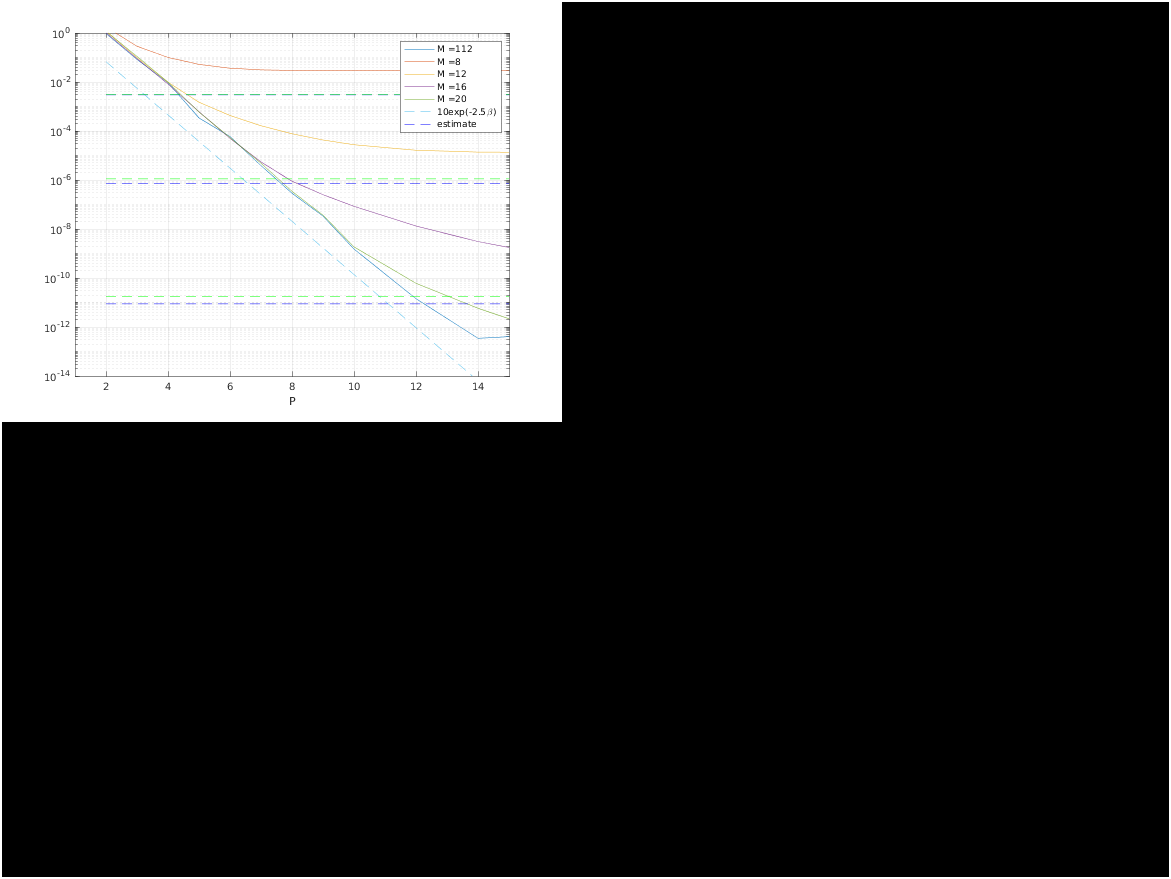
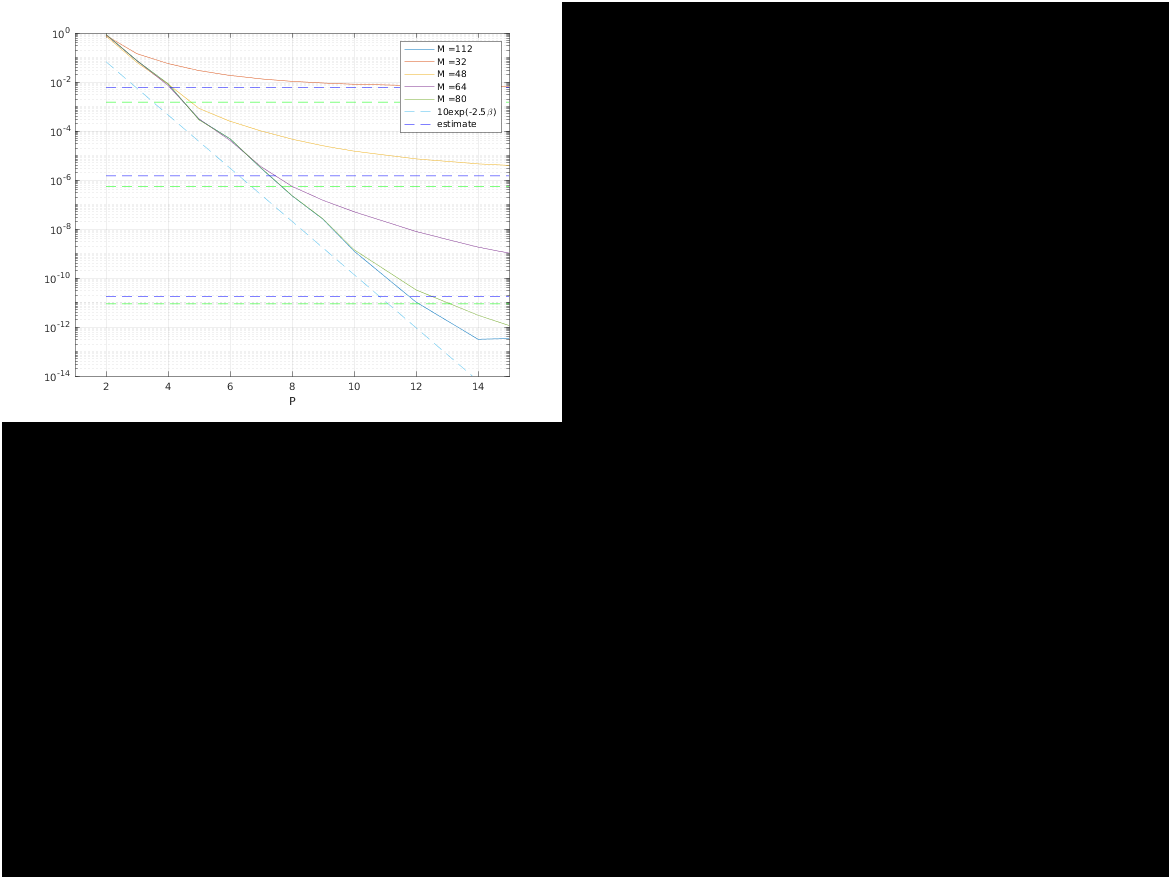
img

diff --git a/SE_Stokes_run/SE3P_Stokes/P_error.m b/SE_Stokes_run/SE3P_Stokes/P_error.m
@@ -8,7 +8,7 @@ N = 1000; % number of source particles
 
 
 %% Parameter selection
-L = 1; % box side length
+L = 2; % box side length
 box = [L L L]; % periodic box
 opt.box = box;
 
@@ -17,7 +17,7 @@ opt.box = box;
 
 M0 = 128; % Set M0=M/L, the restu * 1+ is automatic
 opt.M = M0*[1,1,1];
-opt.xi = 5;
+opt.xi = 10;
 opt.betaP = 2.5;
 opt.c = sqrt(0.91);
 %opt.window = 'kaiser_exact';
@@ -45,7 +45,7 @@ end
 %ref = SE3P_Stokes(1:N,x,f,opt);
 rms_ref = rmse(ref);
 %% Compare solutions with changing P
-MM = (8:4:20);
+MM = 4.*(8:4:20);
 str = {};
 est_old = @(M,xi,L,f) sqrt(f)*(xi^3*L^2/(pi^4*(M/2)^(3/2)))*exp(-(pi*(M/2)/(xi*L))^2);
 %est = @(M,xi,L,f) sqrt(f)*(4/(3^(1/4)*L*pi))*exp(-(pi*M/(xi*L*2))^2);
